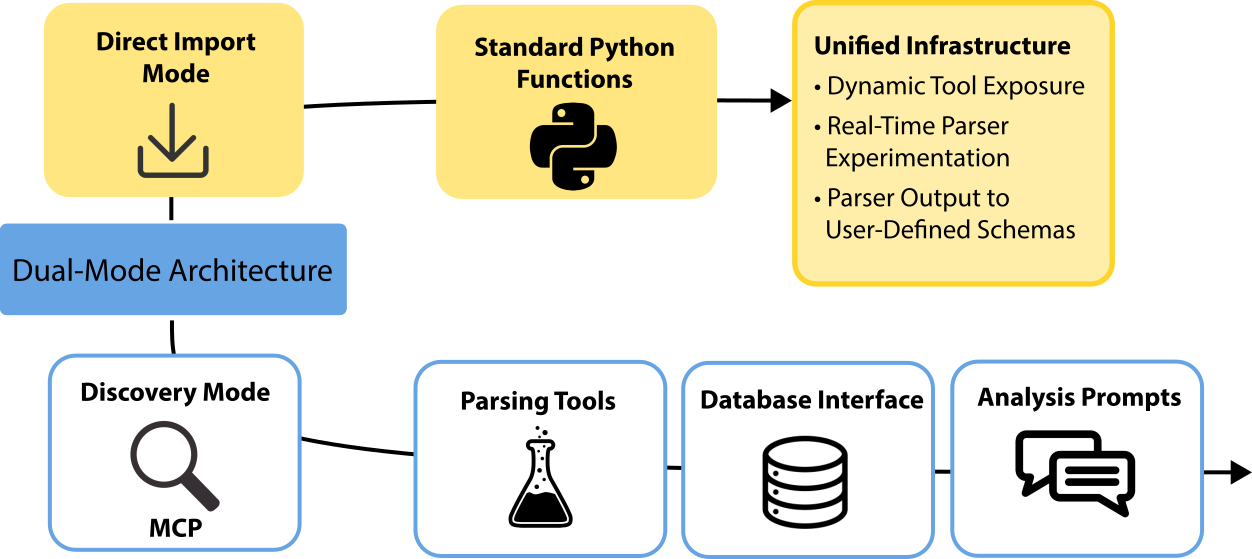
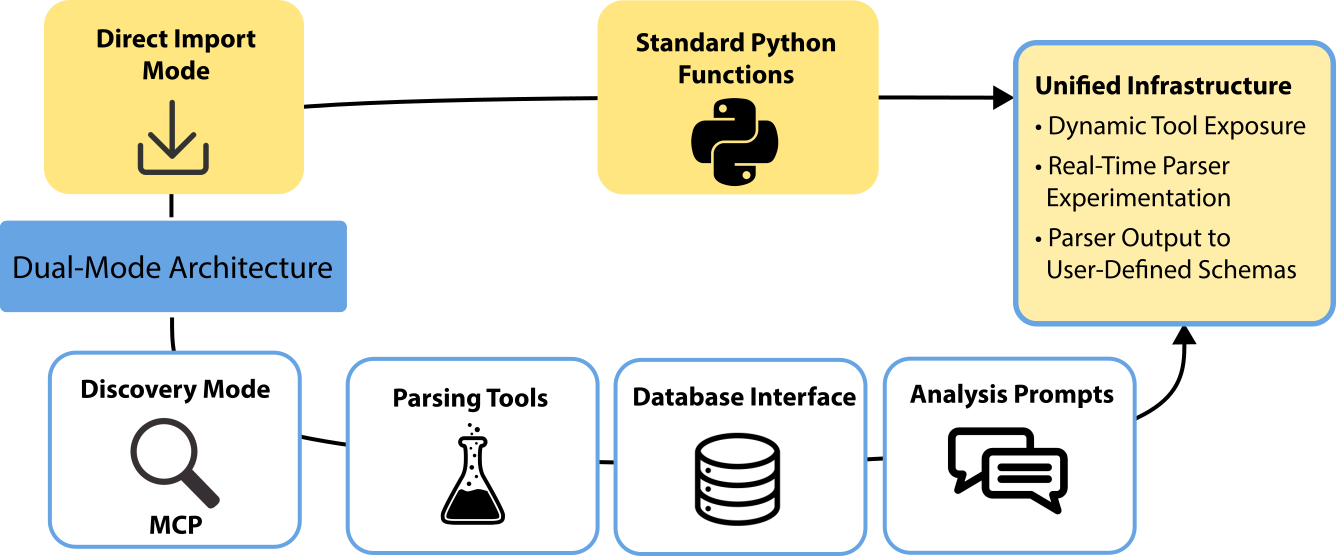
- Expand figure caption - Unify the figure text box between both branches
Changes to be committed:
	modified:   draft.tex
	modified:   parse-patrol.png

diff --git a/paper/draft.tex b/paper/draft.tex
@@ -94,7 +94,11 @@ To the best of the authors' knowledge, no other such framework exists that bridg
     \includegraphics[width=0.5\linewidth]{figures/parse-patrol.png}
     \caption{
     \textbf{Parse Patrol:}
-    The dual-mode architecture allows for user queries via discovery mode and direct Python import mode for parsing big quantum chemistry software files properly.
+    Schematic depiction of the \textit{dual-mode} feature.
+    Lower branch: Discovery mode provides a single MCP interface to several parser and database servers.
+    The central server further exposes pre-engineered prompts for the suggested use case.
+    Most hosts provide shortcuts to these prompts.
+    Upper branch: Direct Import mode exposes the same MCP components as Python modules for friction-less switching from testing to production.
     }
     \label{fig:parse-patrol}
 \end{figure}
